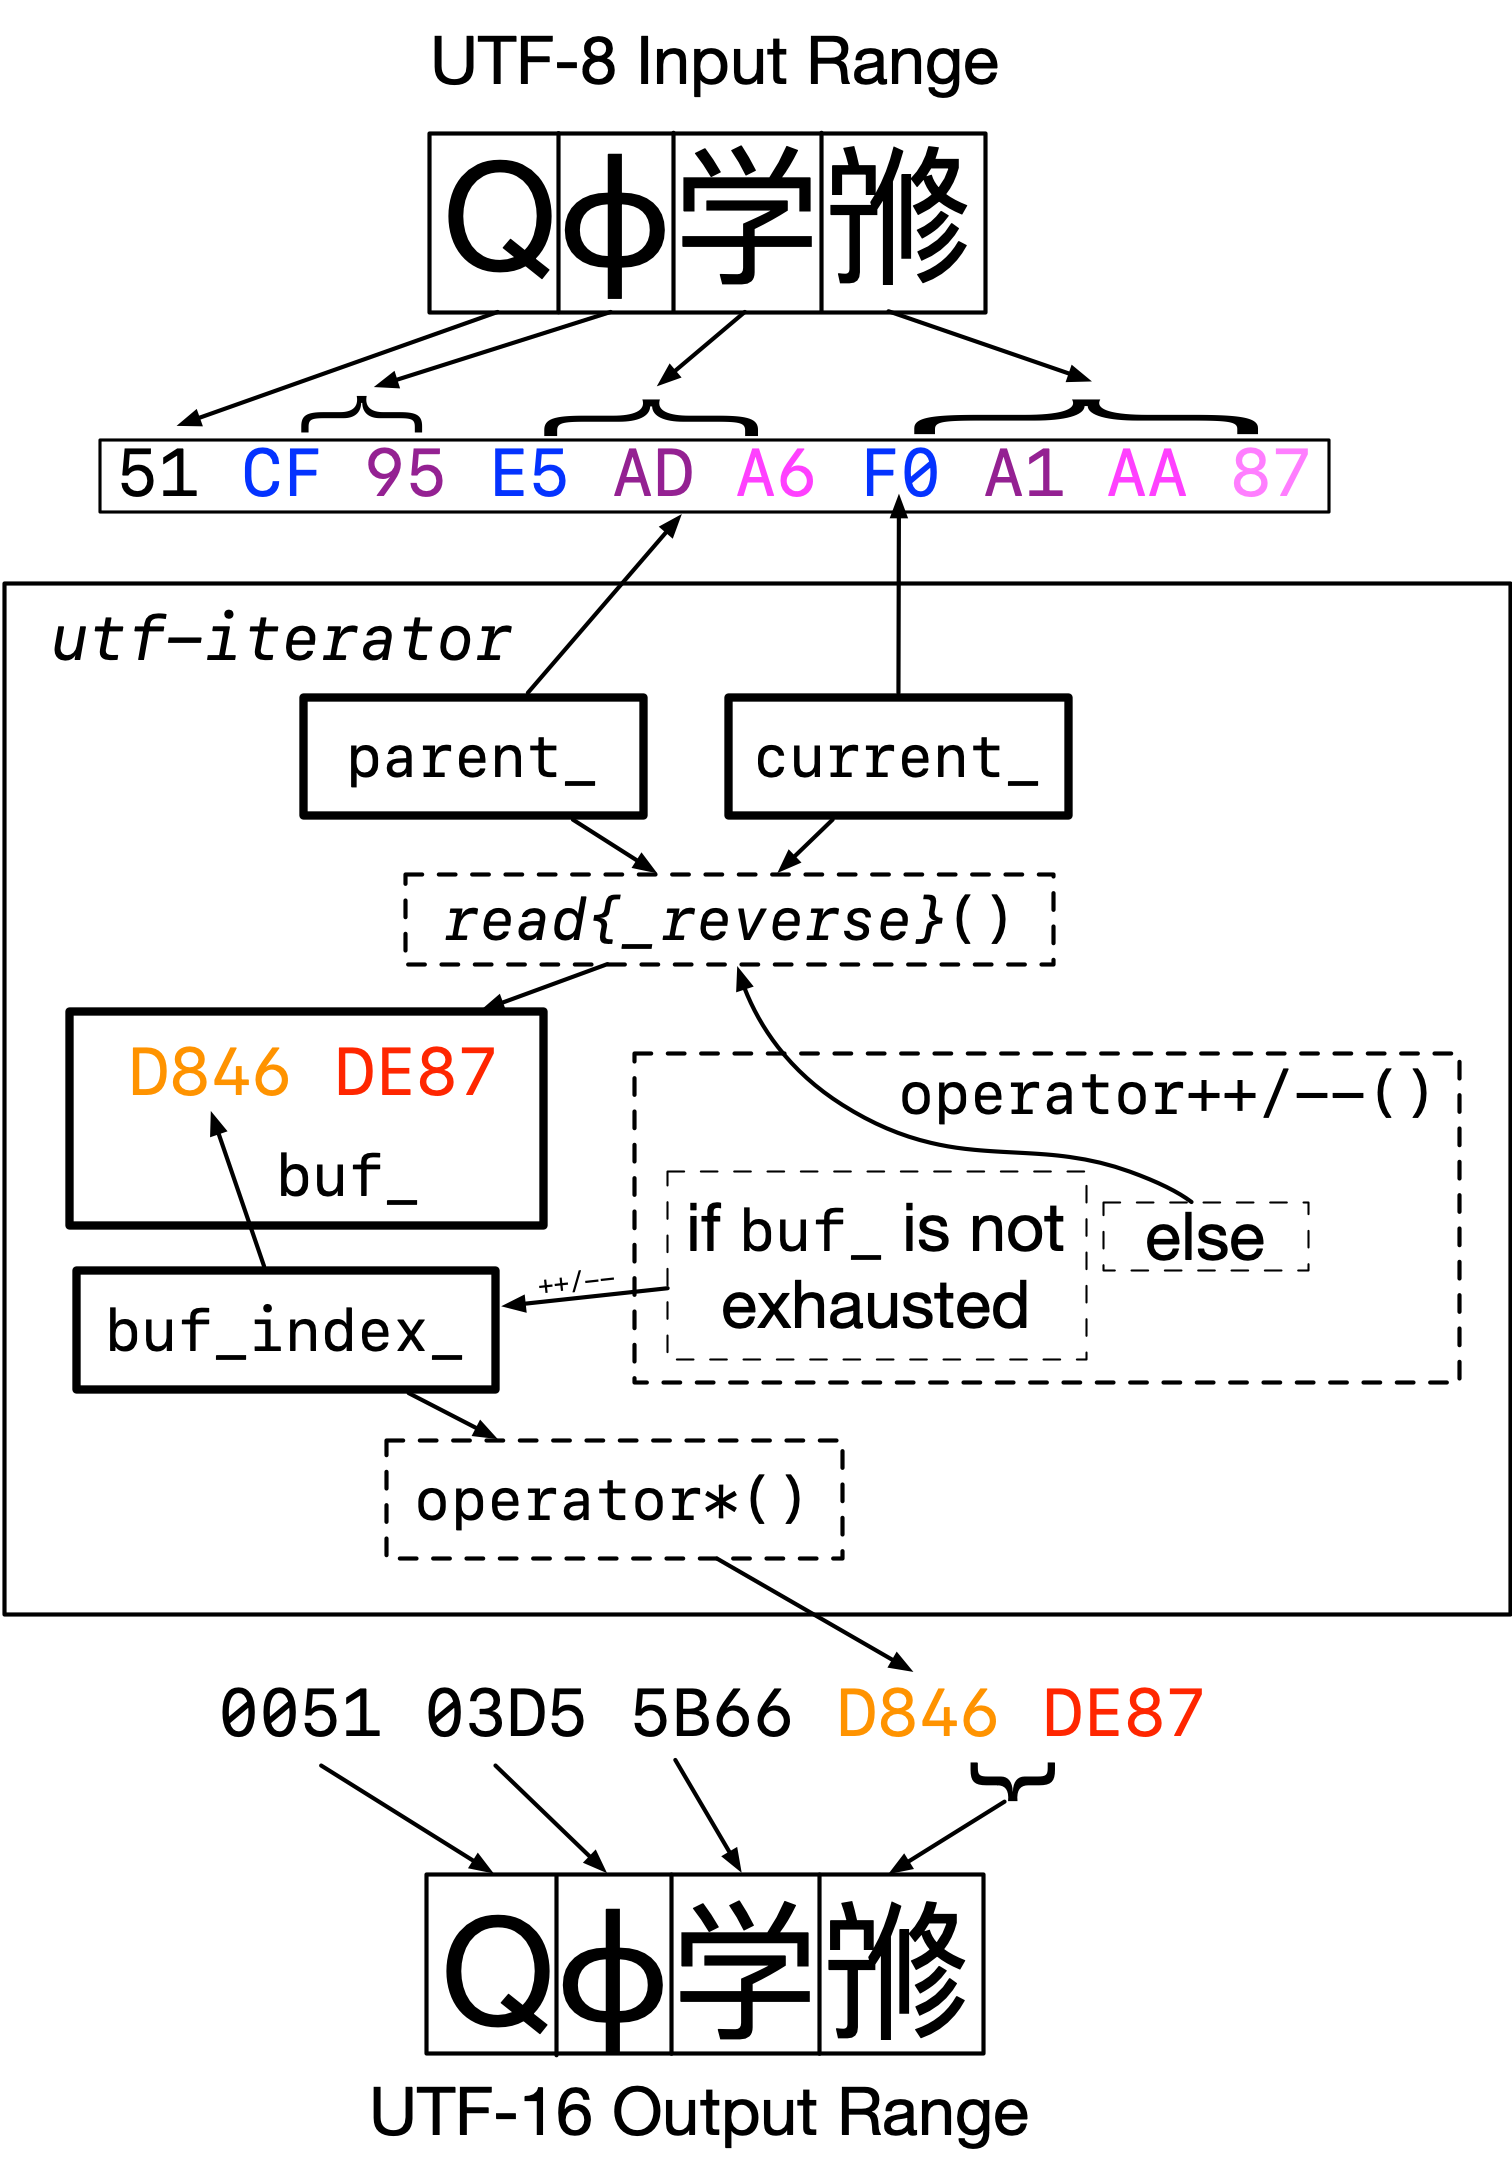
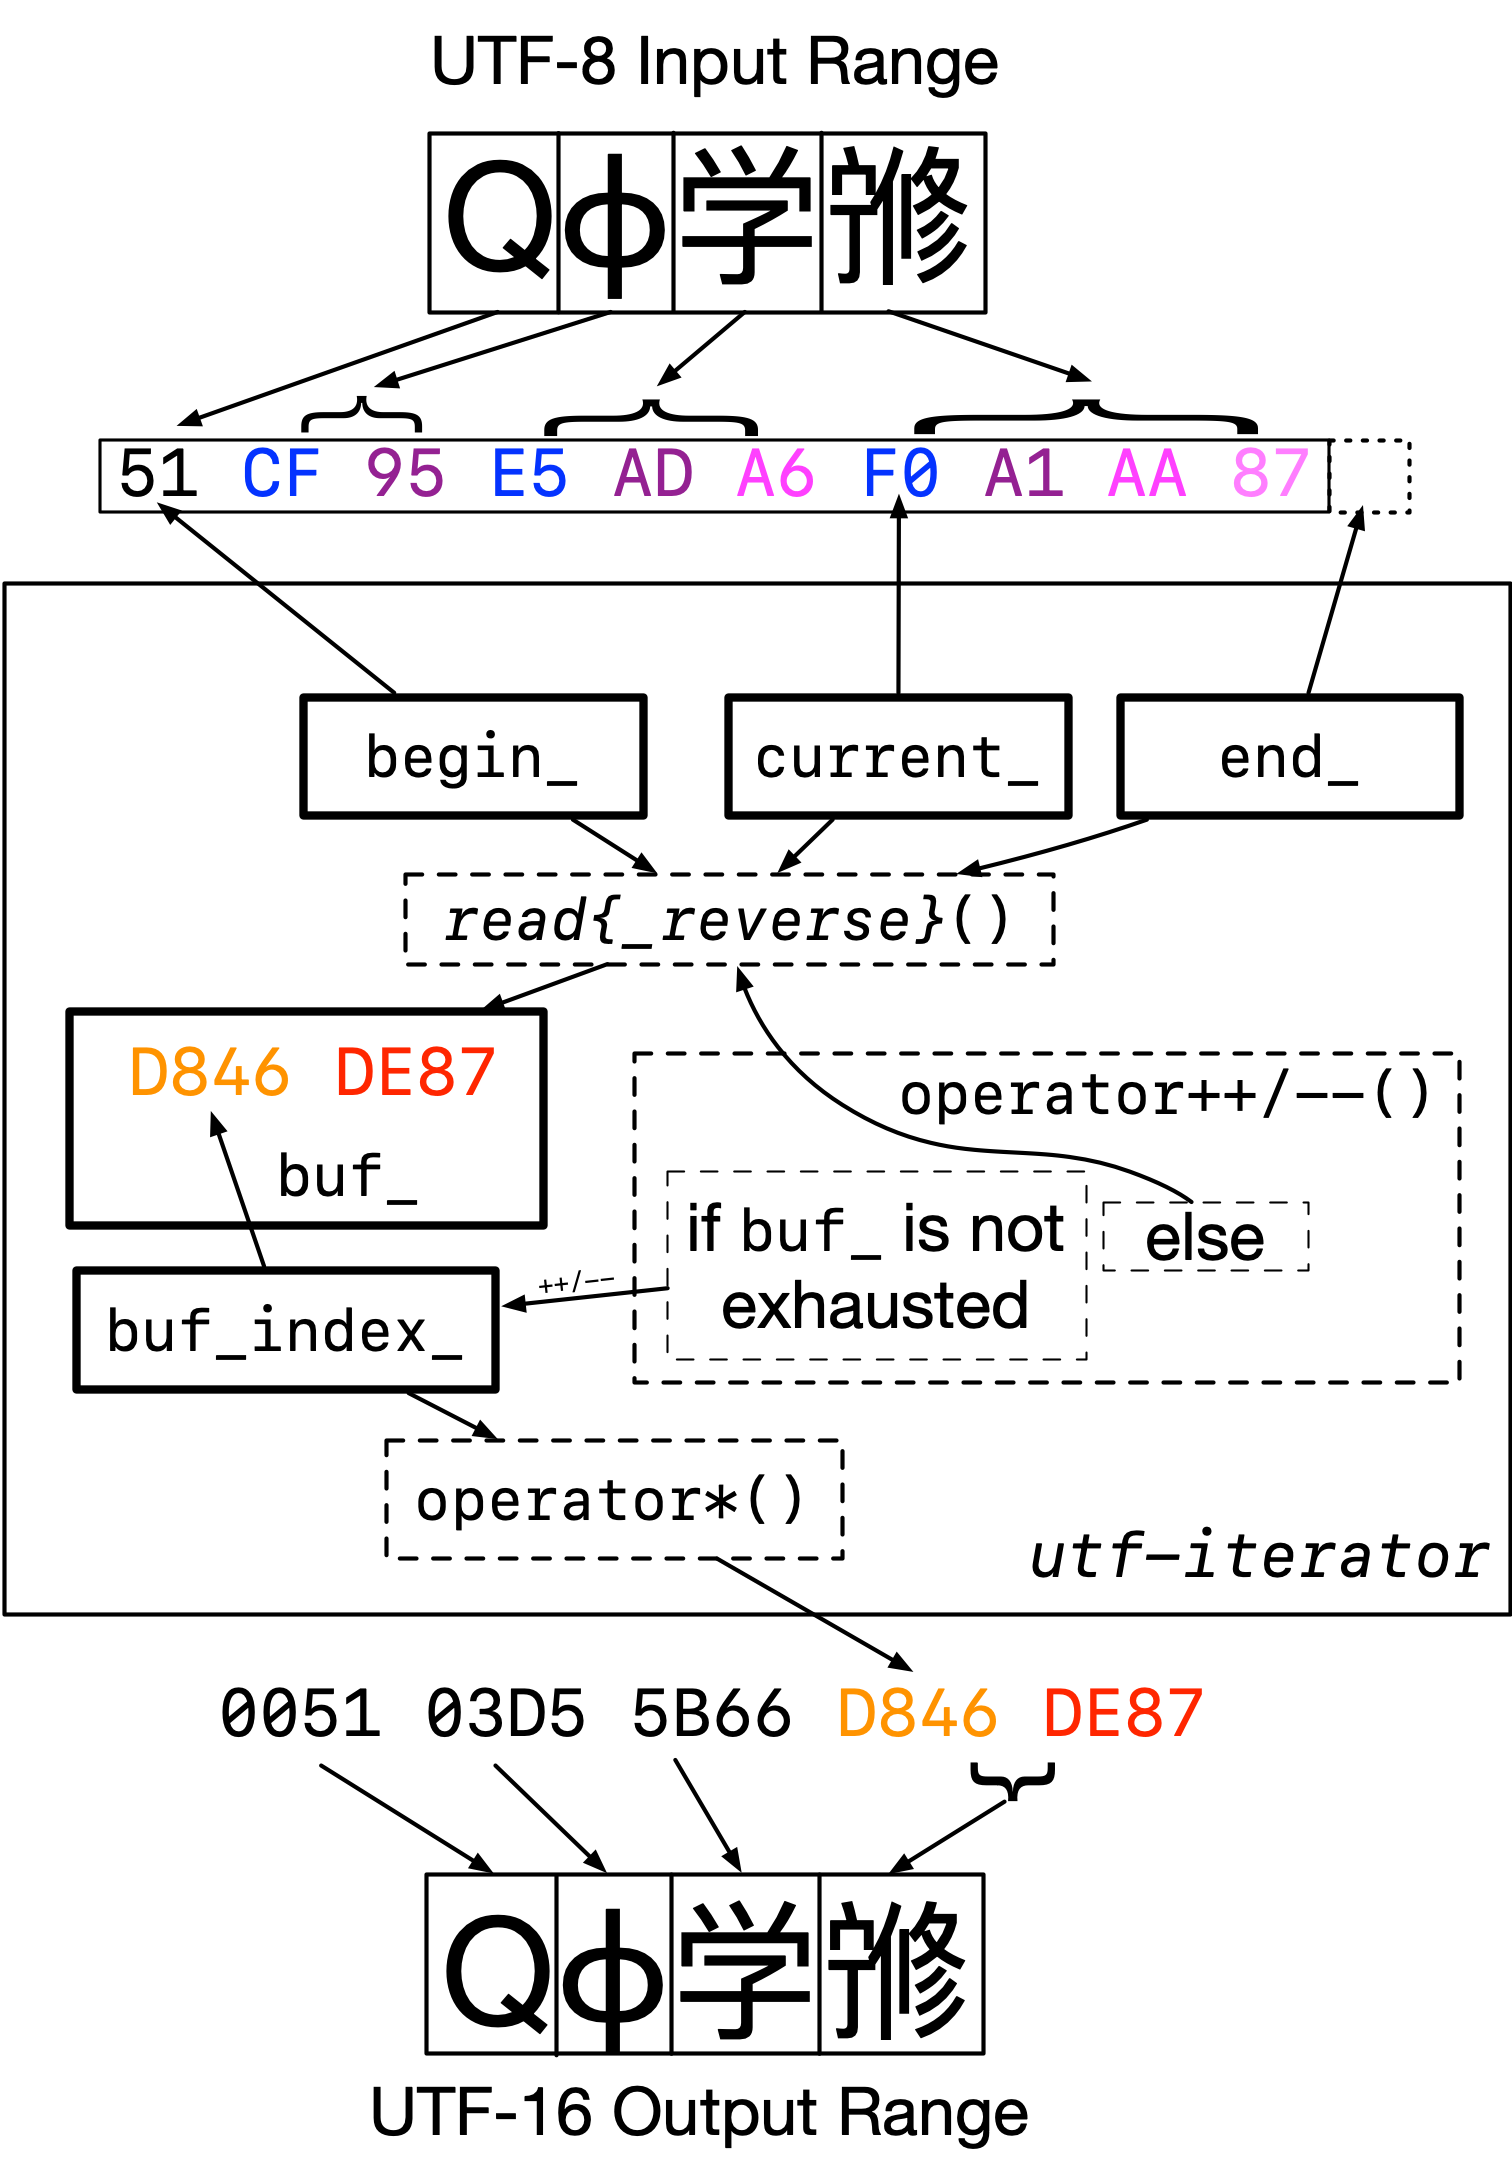
Replace iterator's back-pointer with previous three-iterator design
After considering the fact that views::adjacent<N> means that the
library has precedent for views whose iterators contain multiple
iterators from the base view, and the fact that, since R10 broke
.base() consistency to implement the double-transcode optimization, we
no longer need the innermost-iterator machinery, I realized that it
was possible to restore the three-iterator design from P2728R7 and
before, and with it, the borrowedness of the view.

diff --git a/include/beman/utf_view/to_utf_view.hpp b/include/beman/utf_view/to_utf_view.hpp
@@ -163,33 +163,52 @@ public:
 
   /* !PAPER */
   /* PAPER:     constexpr @*iterator*@<false> begin(); */
-  constexpr exposition_only_iterator<false> begin()
-  {
-    return exposition_only_iterator<false>(*this, std::ranges::begin(base_));
+  constexpr exposition_only_iterator<false> begin() {
+    if constexpr (std::ranges::bidirectional_range<V>) {
+      return exposition_only_iterator<false>(
+          std::ranges::begin(base_), std::ranges::begin(base_), std::ranges::end(base_));
+    } else {
+      return exposition_only_iterator<false>(
+          std::ranges::begin(base_), std::ranges::end(base_));
+    }
   }
   /* PAPER */
   constexpr exposition_only_iterator<true> begin() const
-    requires std::ranges::range<const V> &&
-             ((std::same_as<std::ranges::range_value_t<V>, char32_t>) ||
-              (!std::ranges::forward_range<const V>)) {
-    return exposition_only_iterator<true>(*this, std::ranges::begin(base_));
+      requires std::ranges::range<const V> &&
+               ((std::same_as<std::ranges::range_value_t<V>, char32_t>) ||
+                (!std::ranges::forward_range<const V>)) {
+    if constexpr (std::ranges::bidirectional_range<const V>) {
+      return exposition_only_iterator<true>(
+          std::ranges::begin(base_), std::ranges::begin(base_), std::ranges::end(base_));
+    } else {
+      return exposition_only_iterator<true>(
+          std::ranges::begin(base_), std::ranges::end(base_));
+    }
   }
 
-  constexpr exposition_only_sentinel<false> end()
-  {
+  constexpr exposition_only_sentinel<false> end() {
     return exposition_only_sentinel<false>(std::ranges::end(base_));
   }
-  constexpr exposition_only_iterator<false> end() requires std::ranges::common_range<V>
-  {
-    return exposition_only_iterator<false>(*this, std::ranges::end(base_));
+  constexpr exposition_only_iterator<false> end() requires std::ranges::common_range<V> {
+    if constexpr (std::ranges::bidirectional_range<V>) {
+      return exposition_only_iterator<false>(
+          std::ranges::begin(base_), std::ranges::end(base_), std::ranges::end(base_));
+    } else {
+      return exposition_only_iterator<false>(std::ranges::end(base_), std::ranges::end(base_));
+    }
   }
   constexpr exposition_only_sentinel<true> end() const
-    requires std::ranges::range<const V> {
+      requires std::ranges::range<const V> {
     return exposition_only_sentinel<true>(std::ranges::end(base_));
   }
   constexpr exposition_only_iterator<true> end() const
     requires std::ranges::common_range<const V> {
-    return exposition_only_iterator<true>(*this, std::ranges::end(base_));
+    if constexpr (std::ranges::bidirectional_range<const V>) {
+      return exposition_only_iterator<true>(
+          std::ranges::begin(base_), std::ranges::end(base_), std::ranges::end(base_));
+    } else {
+      return exposition_only_iterator<true>(std::ranges::end(base_), std::ranges::end(base_));
+    }
   }
 
   constexpr bool empty() const {
@@ -228,7 +247,6 @@ template <bool Const>
 struct to_utf_view<V, E, ToType>::exposition_only_iterator : detail::iter_category_impl<V> {
 /* PAPER */
 private:
-  using exposition_only_Parent = exposition_only_maybe_const<Const, to_utf_view>; // @*exposition only*@
   using exposition_only_Base = exposition_only_maybe_const<Const, V>; // @*exposition only*@
 
 /* !PAPER */
@@ -264,14 +282,22 @@ private:
 #ifdef _MSC_VER
 public: // MSVC has some bug with their implementation of friendship
 #endif
+/* !PAPER */
+  [[no_unique_address]] std::conditional_t<std::ranges::bidirectional_range<exposition_only_Base>, std::ranges::iterator_t<exposition_only_Base>, std::monostate> begin_{};
+/* PAPER:   iterator_t<exposition_only_Base> begin_{}; // @*exposition only*@, present only if */
+/* PAPER:                                              //   bidirectional_range<exposition_only_Base> is true */
 /* PAPER */
-  std::ranges::iterator_t<exposition_only_Base> current_ = std::ranges::iterator_t<exposition_only_Base>(); // @*exposition only*@
-  exposition_only_Parent* parent_ = nullptr; // @*exposition only*@
+  std::ranges::iterator_t<exposition_only_Base> current_{}; // @*exposition only*@
+/* !PAPER */
+  [[no_unique_address]] std::ranges::sentinel_t<exposition_only_Base> end_{}; // @*exposition only*@
+/* PAPER:   sentinel_t<exposition_only_Base> end_; // @*exposition only*@ */
 
   detail::fake_inplace_vector<value_type, 4 / sizeof(ToType)> buf_{}; // @*exposition only*@
+/* PAPER:   inplace_vector<value_type, 4 / sizeof(ToType)> buf_{}; // @*exposition only*@ */
+/* PAPER */
 
-  std::int8_t buf_index_ = 0; // @*exposition only*@
-  std::uint8_t to_increment_ = 0; // @*exposition only*@
+  std::int8_t buf_index_{}; // @*exposition only*@
+  std::uint8_t to_increment_{}; // @*exposition only*@
 
   /* !PAPER */
   std::expected<void, utf_transcoding_error> success_{};
@@ -283,14 +309,37 @@ public: // MSVC has some bug with their implementation of friendship
   friend class to_utf_view; // @*exposition only*@
 
 public:
+  constexpr exposition_only_iterator()
+    requires std::default_initializable<std::ranges::iterator_t<exposition_only_Base>> = default;
 
-  CONSTEXPR_UNLESS_MSVC exposition_only_iterator()
-    requires std::default_initializable<std::ranges::iterator_t<V>>
-  = default;
+  constexpr exposition_only_iterator(exposition_only_iterator const&)
+    requires std::copyable<std::ranges::iterator_t<exposition_only_Base>> = default;
+  constexpr exposition_only_iterator& operator=(
+      exposition_only_iterator const&)
+    requires std::copyable<std::ranges::iterator_t<exposition_only_Base>> = default;
+  constexpr exposition_only_iterator(exposition_only_iterator&&) = default;
+  constexpr exposition_only_iterator& operator=(exposition_only_iterator&&) = default;
+
+private:
   constexpr exposition_only_iterator(
-      exposition_only_Parent& parent, std::ranges::iterator_t<exposition_only_Base> begin)
-    : current_(std::move(begin)),
-      parent_(std::addressof(parent))
+      std::ranges::iterator_t<exposition_only_Base> begin,
+      std::ranges::iterator_t<exposition_only_Base> current,
+      std::ranges::sentinel_t<exposition_only_Base> end) // @*exposition only*@
+    requires std::ranges::bidirectional_range<exposition_only_Base>
+  : begin_(std::move(begin)),
+    current_(std::move(current)),
+    end_(end)
+  {
+    if (base() != exposition_only_end())
+      exposition_only_read();
+  }
+
+  constexpr exposition_only_iterator(
+      std::ranges::iterator_t<exposition_only_Base> current,
+      std::ranges::sentinel_t<exposition_only_Base> end) // @*exposition only*@
+    requires (!std::ranges::bidirectional_range<exposition_only_Base>)
+  : current_(std::move(current)),
+    end_(end)
   {
     if (base() != exposition_only_end())
       exposition_only_read();
@@ -299,6 +348,7 @@ public:
     }
   }
 
+public:
 
   constexpr const std::ranges::iterator_t<exposition_only_Base>& base() const& noexcept {
     return current_;
@@ -404,12 +454,12 @@ private:
   constexpr std::ranges::iterator_t<exposition_only_Base> begin() const
     requires std::ranges::bidirectional_range<exposition_only_Base>
   {
-    return std::ranges::begin(parent_->base_);
+    return begin_;
   }
 
   /* PAPER */
-  constexpr std::ranges::sentinel_t<exposition_only_Base> exposition_only_end() const { // @*exposition only*/
-    return std::ranges::end(parent_->base_);
+  constexpr std::ranges::sentinel_t<exposition_only_Base> exposition_only_end() const { // @*exposition only*@
+    return end_;
   }
 
   /* PAPER:       constexpr expected<void, utf_transcoding_error> @*success*@() const noexcept requires(E == to_utf_view_error_kind::expected); // @*exposition only*@ */
@@ -840,7 +890,6 @@ template <std::ranges::input_range V, to_utf_view_error_kind E, exposition_only_
 template <bool Const>
 struct to_utf_view<V, E, ToType>::exposition_only_sentinel {
 private:
-  using exposition_only_Parent = exposition_only_maybe_const<Const, to_utf_view>; // @*exposition only*@
   using exposition_only_Base = exposition_only_maybe_const<Const, V>; // @*exposition only*@
   std::ranges::sentinel_t<exposition_only_Base> end_ = std::ranges::sentinel_t<exposition_only_Base>();
 
@@ -956,6 +1005,17 @@ inline constexpr detail::to_utf_impl<to_utf_view_error_kind::expected, char32_t>
 /* PAPER: }                                                     */
 
 } // namespace beman::utf_view
+
+template <class V, beman::utf_view::to_utf_view_error_kind E, class ToType>
+inline constexpr bool std::ranges::enable_borrowed_range<beman::utf_view::to_utf_view<V, E, ToType>> =
+    std::ranges::enable_borrowed_range<V>;
+
+/* PAPER: namespace std::ranges {                                                                              */
+/* PAPER:                                                                                                      */
+/* PAPER:   template <class V, to_utf_view_error_kind E, class ToType>                                         */
+/* PAPER:   inline constexpr bool enable_borrowed_range<to_utf_view<V, E, ToType>> = enable_borrowed_range<V>; */
+/* PAPER:                                                                                                      */
+/* PAPER: }                                                                                                    */
 
 #endif // BEMAN_UTF_VIEW_USE_MODULES() &&
        // !defined(BEMAN_UTF_VIEW_INCLUDED_FROM_INTERFACE_UNIT)

diff --git a/papers/P2728.md b/papers/P2728.md
@@ -220,7 +220,7 @@ actual data members of the iterator; dashed lines are just function calls.
 
 The `to_utf_view::@*iterator*@` is converting the string `Qϕ学𡪇`
 from UTF-8 to UTF-16. The user has iterated the view to the first UTF-16 code
-unit of the fourth character. `base_` points to the start of the fourth
+unit of the fourth character. `current_` points to the start of the fourth
 character in the input. `buf_` contains both UTF-16 code units of the fourth
 character; `buf_index_` keeps track of the fact that we're currently pointing
 to the first one. If we invoke `operator++` on the
@@ -229,7 +229,7 @@ to the second code unit. On the other hand, if we invoke `operator--`, it will
 notice that `buf_index_` is already at the beginning and move backward from
 the fourth character to the third character by invoking
 `@*read-reverse*@()`. The `@*read*@()` and `@*read-reverse*@()` functions
-contain most of the actual transcoding logic, updating `base_` and filling
+contain most of the actual transcoding logic, updating `current_` and filling
 `buf_` up with the transcoded characters.
 
 Iterating a bidirectional transcoding view backwards produces, in reverse
@@ -577,16 +577,23 @@ public:
   constexpr V base() && { return std::move(@*base_*@); }
 
   constexpr @*iterator*@<false> begin();
-  constexpr @*iterator*@<true> begin() const
-    requires range<const V> && ((same_as<range_value_t<V>, char32_t>) || (!forward_range<const V>))
+  constexpr @*iterator*@<true> begin() const requires range<const V> && ((same_as<range_value_t<V>, char32_t>) || (!forward_range<const V>))
   {
-    return @*iterator*@<true>(*this, begin(@*base_*@));
+    if constexpr (bidirectional_range<const V>) {
+      return @*iterator*@<true>(begin(@*base_*@), begin(@*base_*@), end(@*base_*@));
+    } else {
+      return @*iterator*@<true>(begin(@*base_*@), end(@*base_*@));
+    }
   }
 
   constexpr @*sentinel*@<false> end() { return @*sentinel*@<false>(end(@*base_*@)); }
   constexpr @*iterator*@<false> end() requires common_range<V>
   {
-    return @*iterator*@<false>(*this, end(@*base_*@));
+    if constexpr (bidirectional_range<V>) {
+      return @*iterator*@<false>(begin(@*base_*@), end(@*base_*@), end(@*base_*@));
+    } else {
+      return @*iterator*@<false>(end(@*base_*@), end(@*base_*@));
+    }
   }
   constexpr @*sentinel*@<true> end() const requires range<const V>
   {
@@ -594,7 +601,11 @@ public:
   }
   constexpr @*iterator*@<true> end() const requires common_range<const V>
   {
-    return @*iterator*@<true>(*this, end(@*base_*@));
+    if constexpr (bidirectional_range<const V>) {
+      return @*iterator*@<true>(begin(@*base_*@), end(@*base_*@), end(@*base_*@));
+    } else {
+      return @*iterator*@<true>(end(@*base_*@), end(@*base_*@));
+    }
   }
 
   constexpr bool empty() const { return empty(@*base_*@); }
@@ -602,7 +613,7 @@ public:
   constexpr size_t size()
     requires sized_range<V> && same_as<char32_t, range_value_t<V>> && same_as<char32_t, ToType>
   {
-    return size(base_);
+    return size(@*base_*@);
   }
 
   constexpr auto reserve_hint() requires approximately_sized_range<V>;
@@ -612,6 +623,9 @@ public:
 template<class R, auto E2, @*code-unit*@ ToType>
   to_utf_view(R&&, constant_wrapper<E2, to_utf_view_error_kind>, to_utf_tag_t<ToType>)
     -> to_utf_view<views::all_t<R>, constant_wrapper<E2, to_utf_view_error_kind>::value, ToType>;
+
+template <class V, to_utf_view_error_kind E, class ToType>
+  inline constexpr bool enable_borrowed_range<to_utf_view<V, E, ToType>> = enable_borrowed_range<V>;
 ```
 
 ```cpp
@@ -626,7 +640,7 @@ _Effects_: Initializes `@*base_*@` with `std::move(base)`.
 constexpr @*iterator*@ begin();
 ```
 
-_Returns:_ `{*this, std::ranges::begin(base_)}`
+_Returns:_ `{*this, std::ranges::begin(@*base_*@)}`
 
 ```cpp
 constexpr auto reserve_hint() requires approximately_sized_range<V>;
@@ -659,7 +673,6 @@ template<input_range V, to_utf_view_error_kind E, @*code-unit*@ ToType>
 template<bool Const>
 class to_utf_view<V, E, ToType>::@*iterator*@ {
 private:
-  using @*Parent*@ = @*maybe-const*@<Const, to_utf_view>; // @*exposition only*@
   using @*Base*@ = @*maybe-const*@<Const, V>; // @*exposition only*@
 
 public:
@@ -670,21 +683,39 @@ public:
   using difference_type = ptrdiff_t;
 
 private:
-  iterator_t<@*Base*@> current_ = iterator_t<@*Base*@>(); // @*exposition only*@
-  @*Parent*@* parent_ = nullptr; // @*exposition only*@
+  iterator_t<@*Base*@> begin_{}; // @*exposition only*@, present only if
+                                 //   bidirectional_range<@*Base*@> is true
+  iterator_t<@*Base*@> current_{}; // @*exposition only*@
+  sentinel_t<@*Base*@> end_; // @*exposition only*@
 
   inplace_vector<value_type, 4 / sizeof(ToType)> buf_{}; // @*exposition only*@
 
-  int8_t buf_index_ = 0; // @*exposition only*@
-  uint8_t to_increment_ = 0; // @*exposition only*@
+  int8_t buf_index_{}; // @*exposition only*@
+  uint8_t to_increment_{}; // @*exposition only*@
 
   template<input_range V2, to_utf_view_error_kind E2, @*code-unit*@ ToType2>
     requires view<V2> && @*code-unit*@<range_value_t<V2>>
   friend class to_utf_view; // @*exposition only*@
 
 public:
-  constexpr @*iterator*@() requires default_initializable<iterator_t<V>> = default;
-  constexpr @*iterator*@(@*Parent*@& parent, iterator_t<@*Base*@> begin) : current_(std::move(begin)), parent_(addressof(parent)) {
+  constexpr @*iterator*@() requires default_initializable<iterator_t<@*Base*@>> = default;
+
+  constexpr @*iterator*@(@*iterator*@ const&) requires copyable<iterator_t<@*Base*@>> = default;
+  constexpr @*iterator*@& operator=(@*iterator*@ const&) requires copyable<iterator_t<@*Base*@>> = default;
+  constexpr @*iterator*@(@*iterator*@&&) = default;
+  constexpr @*iterator*@& operator=(@*iterator*@&&) = default;
+
+private:
+  constexpr @*iterator*@(iterator_t<@*Base*@> begin, iterator_t<@*Base*@> current, sentinel_t<@*Base*@> end) // @*exposition only*@
+    requires bidirectional_range<@*Base*@>
+      : begin_(std::move(begin)), current_(std::move(current)), end_(end) {
+    if (base() != @*end*@())
+      @*read*@();
+  }
+
+  constexpr @*iterator*@(iterator_t<@*Base*@> current, sentinel_t<@*Base*@> end) // @*exposition only*@
+    requires (!bidirectional_range<@*Base*@>)
+      : current_(std::move(current)), end_(end) {
     if (base() != @*end*@())
       @*read*@();
     else if constexpr (!forward_range<@*Base*@>) {
@@ -692,6 +723,7 @@ public:
     }
   }
 
+public:
   constexpr const iterator_t<@*Base*@>& base() const& noexcept { return current_; }
 
   constexpr iterator_t<@*Base*@> base() && { return std::move(current_); }
@@ -749,7 +781,7 @@ public:
 
 private:
   constexpr sentinel_t<@*Base*@> @*end*@() const { // @*exposition only*@
-    return end(parent_->@*base_*@);
+    return end_;
   }
 
   constexpr expected<void, utf_transcoding_error> @*success*@() const noexcept requires(E == to_utf_view_error_kind::expected); // @*exposition only*@
@@ -904,7 +936,6 @@ template<input_range V, to_utf_view_error_kind E, @*code-unit*@ ToType>
 template<bool Const>
 struct to_utf_view<V, E, ToType>::@*sentinel*@ {
 private:
-  using @*Parent*@ = @*maybe-const*@<Const, to_utf_view>; // @*exposition only*@
   using @*Base*@ = @*maybe-const*@<Const, V>; // @*exposition only*@
 
   sentinel_t<@*Base*@> end_ = sentinel_t<@*Base*@>(); // @*exposition only*@
@@ -1075,6 +1106,10 @@ gives back the original underlying view if it detects that it's reversing anothe
 ## Changes since R11
 
 - Refactor use of `std::nontype` to use `std::constant_wrapper` instead per P3948.
+- Remove back-pointer to parent view in iterator, restoring R7's three-iterator design and
+  borrowedness, based on precedent from `views::adjacent<N>`; and based on the fact that,
+  since R10 implements the double-transcode optimization in the CPO, we no longer need the
+  `@*innermost-iter*@` machinery that overcomplicated the R7 design.
 
 ## Changes since R10
 